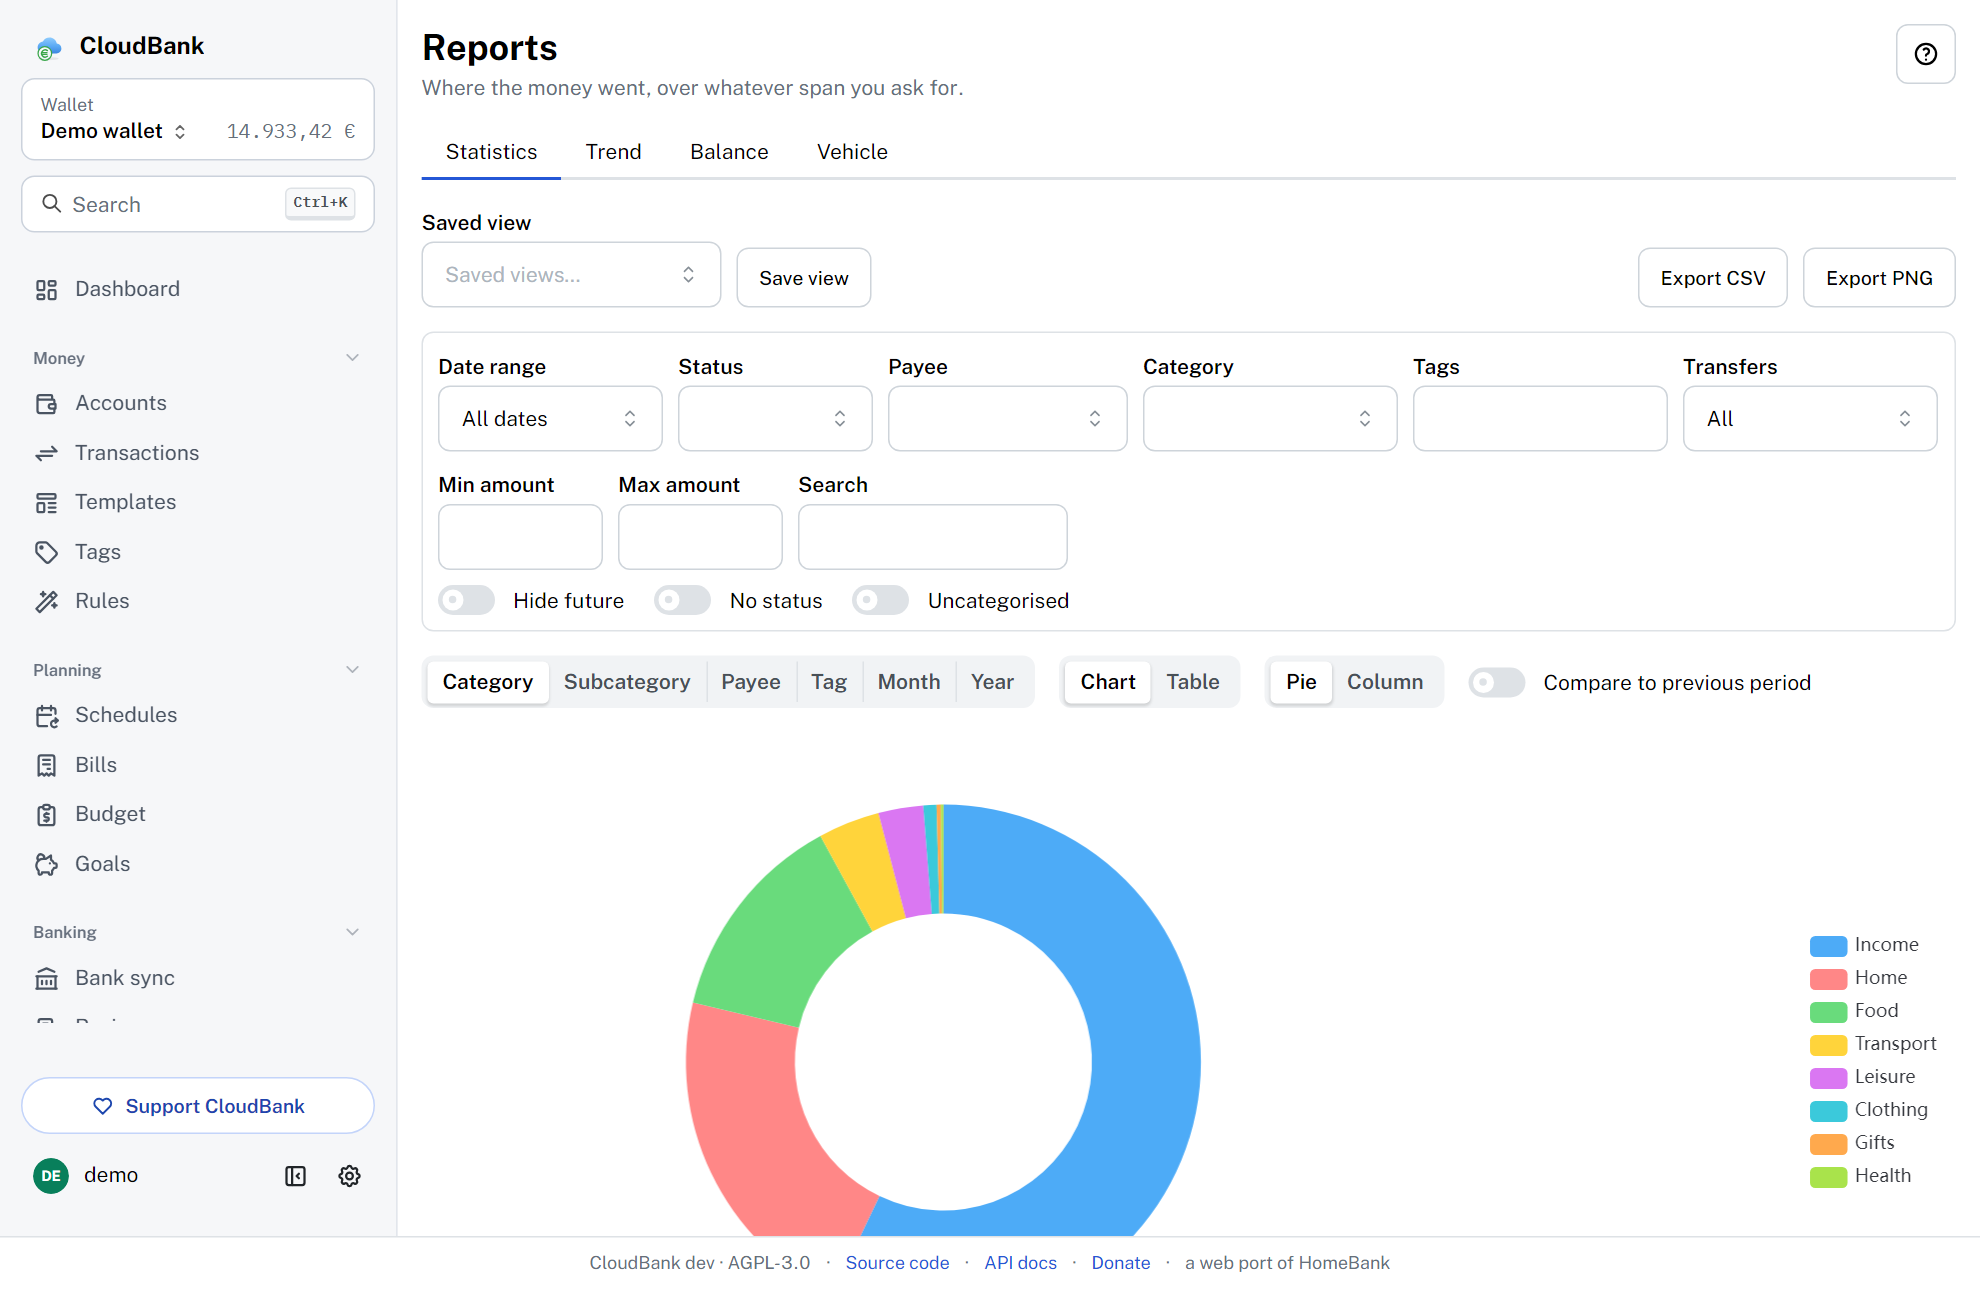
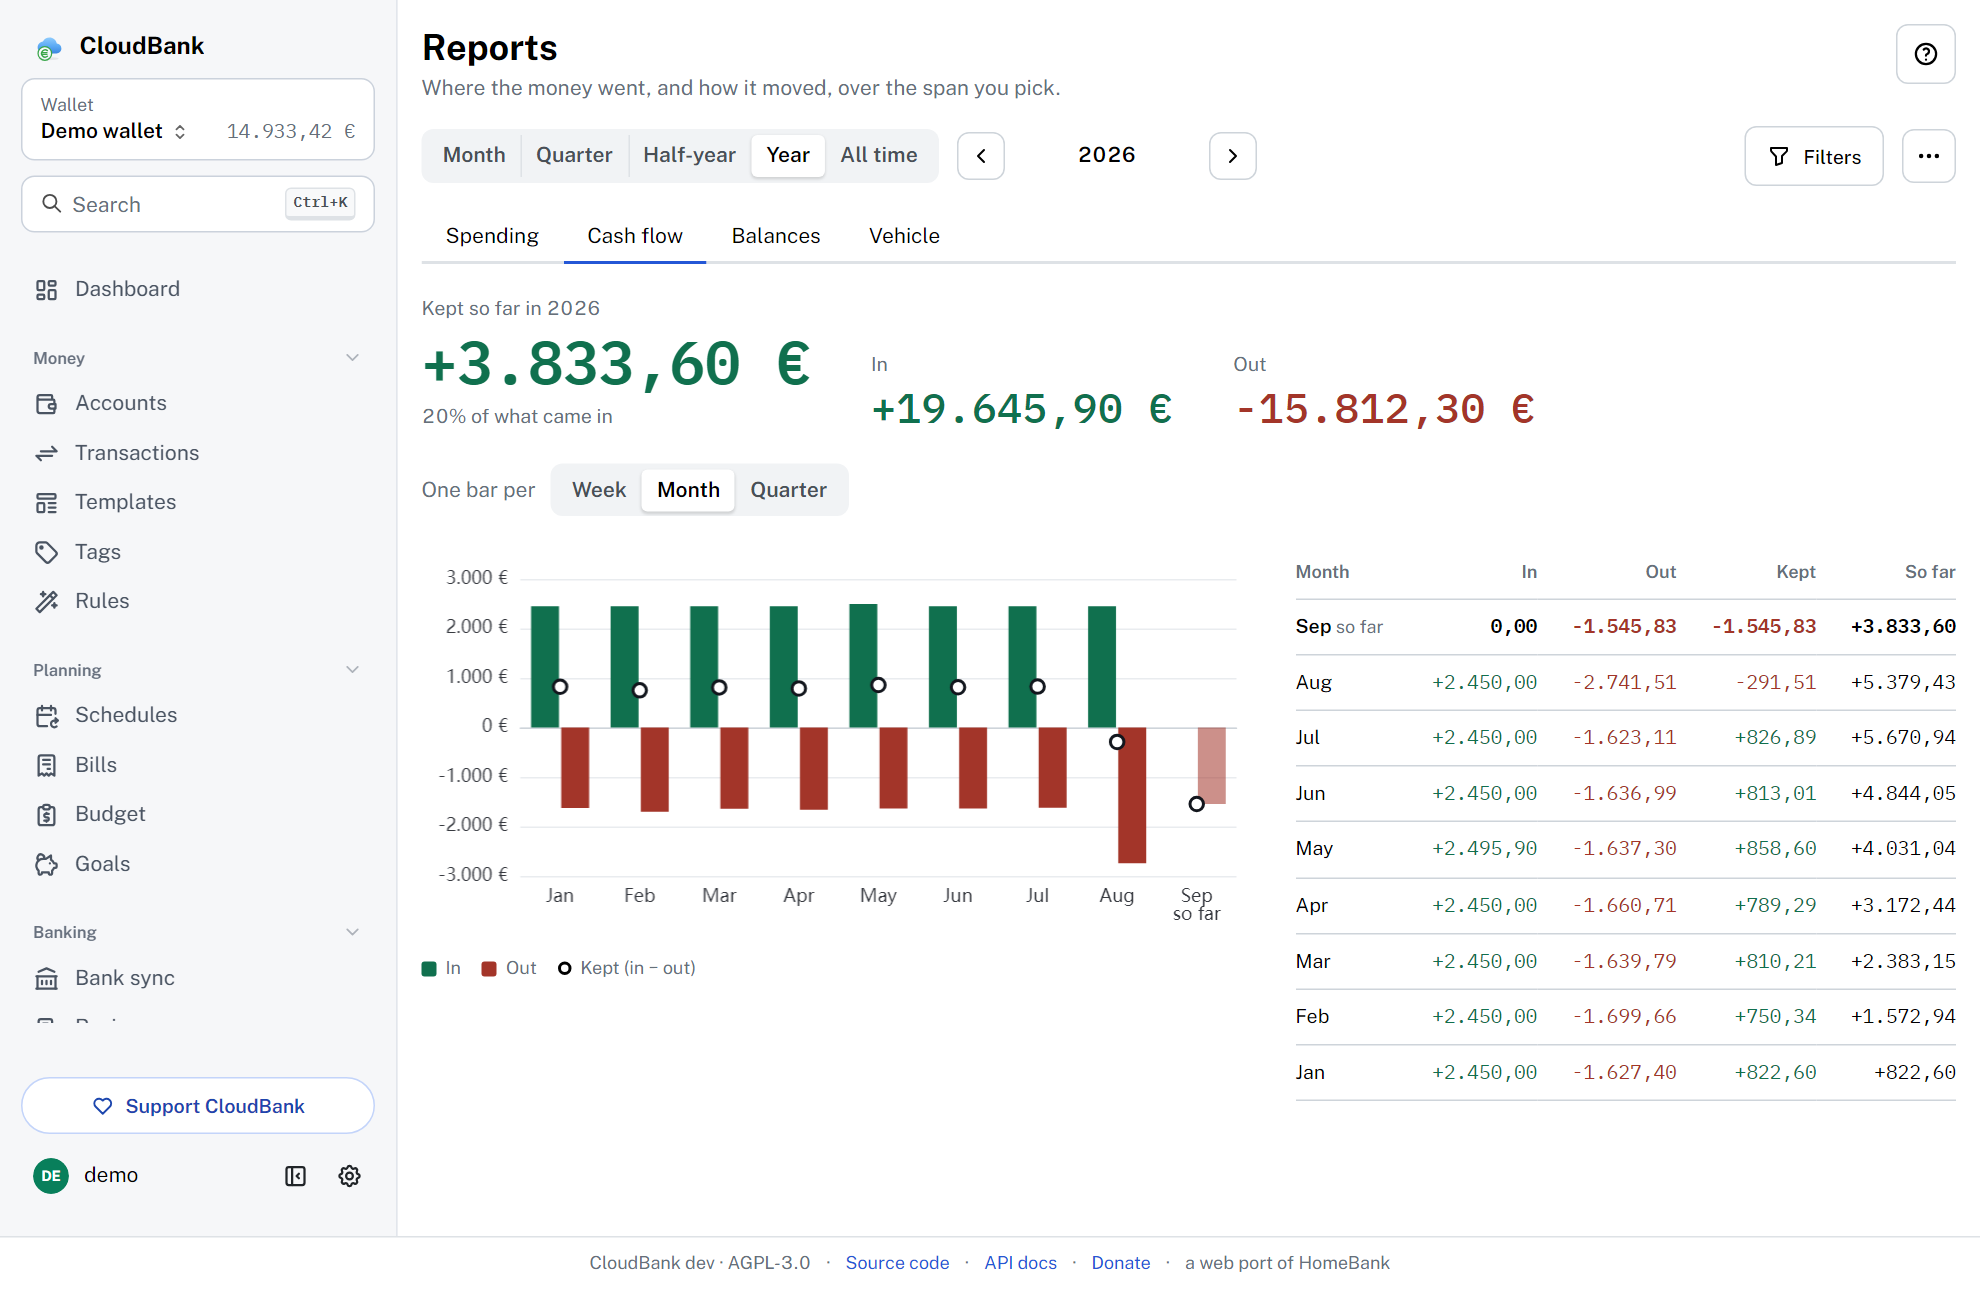
feat(reports): Cash flow shows what came in and what went out
Trend becomes Cash flow (#491). It opens on what was kept in the period,
with its share of what came in, then the totals in and out.

- One green bar in and one red bar out per week, month or quarter, and a
  dot for what was kept. One net line hid both halves, so a month whose
  salary had not arrived yet looked like a collapse.
- Nothing after today is drawn, and the period still running says
  "so far".
- The same figures in a table beside the chart, with the running total
  in place of the "Cumulative" switch. A phone keeps Kept and So far.
- The breakdown by account, payee or category goes: the Filters panel
  narrows the flow to one category or payee instead.

The README's reports picture now shows this tab.

diff --git a/web/src/components/reports/CashFlowTab.tsx b/web/src/components/reports/CashFlowTab.tsx
@@ -1,7 +1,287 @@
-import type { ReportContext } from "./reportContext";
+import { SegmentedControl, Stack, Text } from "@mantine/core";
+import { useQuery } from "@tanstack/react-query";
+import type { EChartsOption } from "echarts";
+import { useEffect, useMemo, useRef } from "react";
+import { useTranslation } from "react-i18next";
 
-// The tab itself comes with #491; the frame (#489) only needs its name.
+import { getTrend } from "../../api/client";
+import { useChartColors } from "../../chartPalette";
+import { toCivilDate } from "../../civilDate";
+import { formatAxisMinor, formatMinor } from "../../money";
+import { Chart, type ChartHandle } from "../Chart";
+import { Figure, Figures } from "./Figures";
+import { type ReportContext, csvAmount, periodName, periodPhrase, shortDay } from "./reportContext";
+import { FLOW_BUCKETS, type FlowBucket, defaultBucket } from "./reportState";
+import { todayBucketKey } from "./reportUtils";
+import classes from "./reports.module.css";
+
+interface Bucket {
+  key: string;
+  in: number;
+  /** Negative: money going out. */
+  out: number;
+  kept: number;
+  /** What was kept from the period's start through this bucket. */
+  running: number;
+  /** Today falls inside it, so it is not over. */
+  partial: boolean;
+}
+
+// Cash flow (#491): what came in and what went out, bar by bar, and what was
+// kept. One net line hid both halves, so a month whose salary had not arrived
+// yet looked like a collapse; now the two are drawn apart, and the month still
+// running says so.
 export function CashFlowTab({ ctx }: { ctx: ReportContext }) {
-  void ctx;
-  return null;
+  const { t, i18n } = useTranslation();
+  const colors = useChartColors();
+  const { walletId, state, set, period, current, params, fmt, isPhone, setExport } = ctx;
+  const bucket: FlowBucket = state.bucket ?? defaultBucket(period.kind);
+  const chartRef = useRef<ChartHandle>(null);
+
+  // Up to today: the figures are "so far", and a future that has not happened
+  // is not drawn as bars of zero.
+  const today = toCivilDate(new Date());
+  const future = !!period.from && period.from > today;
+  const flowParams = useMemo(() => {
+    const p = { ...params };
+    if (!p.to || p.to > today) p.to = today;
+    return p;
+  }, [params, today]);
+
+  const query = useQuery({
+    queryKey: ["trend", walletId, bucket, "flow", flowParams],
+    queryFn: () => getTrend(walletId, bucket, "flow", flowParams),
+    enabled: walletId > 0 && !future,
+  });
+
+  const buckets: Bucket[] = useMemo(() => {
+    const res = query.data;
+    if (!res) return [];
+    const ins = res.series.find((s) => s.key === "in")?.values ?? [];
+    const outs = res.series.find((s) => s.key === "out")?.values ?? [];
+    const now = todayBucketKey(bucket);
+    let running = 0;
+    return res.buckets.map((key, i) => {
+      const kept = (ins[i] ?? 0) + (outs[i] ?? 0);
+      running += kept;
+      return { key, in: ins[i] ?? 0, out: outs[i] ?? 0, kept, running, partial: key === now };
+    });
+  }, [query.data, bucket]);
+
+  const totalIn = buckets.reduce((s, b) => s + b.in, 0);
+  const totalOut = buckets.reduce((s, b) => s + b.out, 0);
+  const kept = totalIn + totalOut;
+
+  // Short labels, never rotated: a year is added only when the bars span more
+  // than one.
+  const years = new Set(buckets.map((b) => b.key.slice(0, 4)));
+  const label = (key: string) => {
+    const [y, rest] = [key.slice(0, 4), key.slice(5)];
+    const yy = years.size > 1 ? ` ${y.slice(2)}` : "";
+    if (bucket === "quarter") return `${rest}${yy}`;
+    if (bucket === "week") return shortDay(key, i18n.language);
+    const name = new Intl.DateTimeFormat(i18n.language, { month: "short" }).format(
+      new Date(Number(y), Number(rest) - 1, 1),
+    );
+    return `${name.charAt(0).toUpperCase()}${name.slice(1)}${yy}`;
+  };
+
+  const option: EChartsOption = useMemo(() => {
+    const money = (v: unknown) => formatMinor(Number(v) || 0, fmt);
+    const partial = (b: Bucket, color: string) => ({
+      value: 0,
+      itemStyle: { color, opacity: b.partial ? 0.55 : 1 },
+    });
+    return {
+      animation: false,
+      grid: { left: 8, right: 8, top: 16, bottom: 8, containLabel: true },
+      tooltip: { trigger: "axis", valueFormatter: money },
+      xAxis: {
+        type: "category",
+        data: buckets.map((b) =>
+          b.partial ? `${label(b.key)}\n${t("reports.cashflow.soFar")}` : label(b.key),
+        ),
+        axisTick: { show: false },
+        axisLabel: { rotate: 0, hideOverlap: true },
+      },
+      yAxis: { type: "value", axisLabel: { formatter: (v: number) => formatAxisMinor(v, fmt) } },
+      series: [
+        {
+          name: t("reports.cashflow.in"),
+          type: "bar",
+          barMaxWidth: 26,
+          barGap: "8%",
+          data: buckets.map((b) => ({ ...partial(b, colors.in), value: b.in })),
+        },
+        {
+          name: t("reports.cashflow.out"),
+          type: "bar",
+          barMaxWidth: 26,
+          data: buckets.map((b) => ({ ...partial(b, colors.out), value: b.out })),
+        },
+        {
+          name: t("reports.cashflow.kept"),
+          type: "line",
+          data: buckets.map((b) => b.kept),
+          symbol: "circle",
+          symbolSize: 9,
+          lineStyle: { opacity: 0 },
+          itemStyle: { color: colors.surface, borderColor: colors.ink, borderWidth: 2 },
+          z: 5,
+        },
+      ],
+    };
+    // label reads buckets and the language, both covered.
+    // eslint-disable-next-line react-hooks/exhaustive-deps
+  }, [buckets, colors, fmt, t, i18n.language, bucket]);
+
+  useEffect(() => {
+    setExport({
+      name: `cash-flow-${period.from?.slice(0, 7) ?? "all"}`,
+      rows: () => [
+        [
+          t(`reports.buckets.${bucket}`),
+          t("reports.cashflow.in"),
+          t("reports.cashflow.out"),
+          t("reports.cashflow.kept"),
+          t("reports.cashflow.running"),
+        ],
+        ...buckets.map((b) => [
+          b.key,
+          csvAmount(b.in, fmt.fracDigits),
+          csvAmount(b.out, fmt.fracDigits),
+          csvAmount(b.kept, fmt.fracDigits),
+          csvAmount(b.running, fmt.fracDigits),
+        ]),
+      ],
+      png: () => chartRef.current?.getPng(),
+    });
+    return () => setExport(null);
+  }, [buckets, bucket, fmt, period.from, setExport, t]);
+
+  const plain = { ...fmt, symbol: "" };
+  const signed = (v: number, f = fmt) => `${v > 0 ? "+" : ""}${formatMinor(v, f)}`;
+  const name = periodName(period, t, i18n.language, true);
+  const share = totalIn > 0 ? Math.round((kept / totalIn) * 100) : null;
+
+  return (
+    <Stack gap="lg">
+      {future ? (
+        <Text c="dimmed">{t("reports.cashflow.future")}</Text>
+      ) : (
+        <Figures>
+          <Figure
+            big
+            testId="cashflow-kept"
+            label={t(current ? "reports.cashflow.keptSoFar" : "reports.cashflow.keptIn", {
+              when: periodPhrase(period, t, i18n.language, "in"),
+            })}
+            value={signed(kept)}
+            color={kept > 0 ? colors.in : kept < 0 ? colors.out : undefined}
+            sub={
+              kept < 0
+                ? t("reports.cashflow.overspent")
+                : share !== null
+                  ? t("reports.cashflow.share", { pct: share })
+                  : undefined
+            }
+          />
+          <Figure
+            label={t("reports.cashflow.in")}
+            value={signed(totalIn)}
+            color={totalIn ? colors.in : undefined}
+          />
+          <Figure
+            label={t("reports.cashflow.out")}
+            value={formatMinor(totalOut, fmt)}
+            color={totalOut ? colors.out : undefined}
+          />
+        </Figures>
+      )}
+
+      <div className={classes.controls}>
+        <Text size="sm" c="dimmed">
+          {t("reports.cashflow.barPer")}
+        </Text>
+        <SegmentedControl
+          aria-label={t("reports.cashflow.barPer")}
+          value={bucket}
+          onChange={(v) => set({ bucket: v as FlowBucket })}
+          data={FLOW_BUCKETS.map((b) => ({ value: b, label: t(`reports.buckets.${b}`) }))}
+        />
+      </div>
+
+      {query.data && totalIn === 0 && totalOut === 0 && (
+        <Text c="dimmed">{t("reports.empty")}</Text>
+      )}
+
+      {!future && (totalIn !== 0 || totalOut !== 0) && (
+        <div className={classes.cols} data-wide>
+          <div>
+            <Chart
+              ref={chartRef}
+              option={option}
+              height={isPhone ? 220 : 260}
+              label={t("reports.cashflow.chartLabel", { period: name })}
+            />
+            <div className={classes.legend}>
+              <span className={classes.legendItem}>
+                <span className={classes.swatch} style={{ background: colors.in }} />
+                {t("reports.cashflow.in")}
+              </span>
+              <span className={classes.legendItem}>
+                <span className={classes.swatch} style={{ background: colors.out }} />
+                {t("reports.cashflow.out")}
+              </span>
+              <span className={classes.legendItem}>
+                <span className={classes.dotSwatch} />
+                {t("reports.cashflow.keptLegend")}
+              </span>
+            </div>
+          </div>
+          <table className={classes.table} data-testid="cashflow-table">
+            <thead>
+              <tr>
+                <th>{t(`reports.buckets.${bucket}`)}</th>
+                <th className={classes.wideOnly}>{t("reports.cashflow.in")}</th>
+                <th className={classes.wideOnly}>{t("reports.cashflow.out")}</th>
+                <th>{t("reports.cashflow.kept")}</th>
+                <th>{t("reports.cashflow.running")}</th>
+              </tr>
+            </thead>
+            <tbody>
+              {[...buckets].reverse().map((b) => (
+                <tr key={b.key} data-current={b.partial || undefined}>
+                  <td>
+                    {label(b.key)}
+                    {b.partial && (
+                      <Text span size="xs" c="dimmed">
+                        {" "}
+                        {t("reports.cashflow.soFar")}
+                      </Text>
+                    )}
+                  </td>
+                  <td className={classes.wideOnly} style={{ color: b.in ? colors.in : undefined }}>
+                    {signed(b.in, plain)}
+                  </td>
+                  <td
+                    className={classes.wideOnly}
+                    style={{ color: b.out ? colors.out : undefined }}
+                  >
+                    {formatMinor(b.out, plain)}
+                  </td>
+                  <td
+                    style={{ color: b.kept < 0 ? colors.out : b.kept > 0 ? colors.in : undefined }}
+                  >
+                    {signed(b.kept, plain)}
+                  </td>
+                  <td>{signed(b.running, plain)}</td>
+                </tr>
+              ))}
+            </tbody>
+          </table>
+        </div>
+      )}
+    </Stack>
+  );
 }

diff --git a/e2e/tests/smoke.spec.ts b/e2e/tests/smoke.spec.ts
@@ -135,8 +135,11 @@ test("full journey: setup → wallet → account → transaction → import → 
 
   await test.step("a report renders", async () => {
     await nav(page, "Reports");
-    await expect(page.getByRole("tab", { name: "Statistics" })).toBeVisible();
-    // The statistics report draws an ECharts canvas.
+    await expect(page.getByRole("tab", { name: "Spending" })).toBeVisible();
+    // The answer comes first: the month's spending, before any control.
+    await expect(page.getByTestId("spending-total")).toBeVisible();
+    // The cash flow draws an ECharts canvas.
+    await page.goto("/reports?tab=cashflow&p=all");
     await expect(page.locator("canvas").first()).toBeVisible();
   });
 
